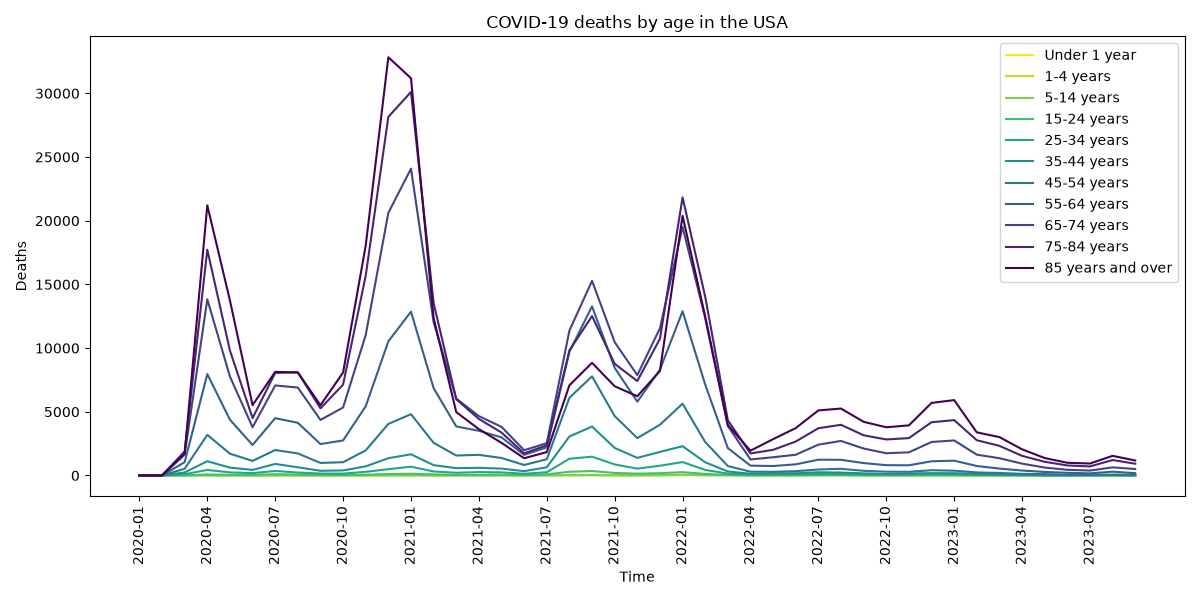
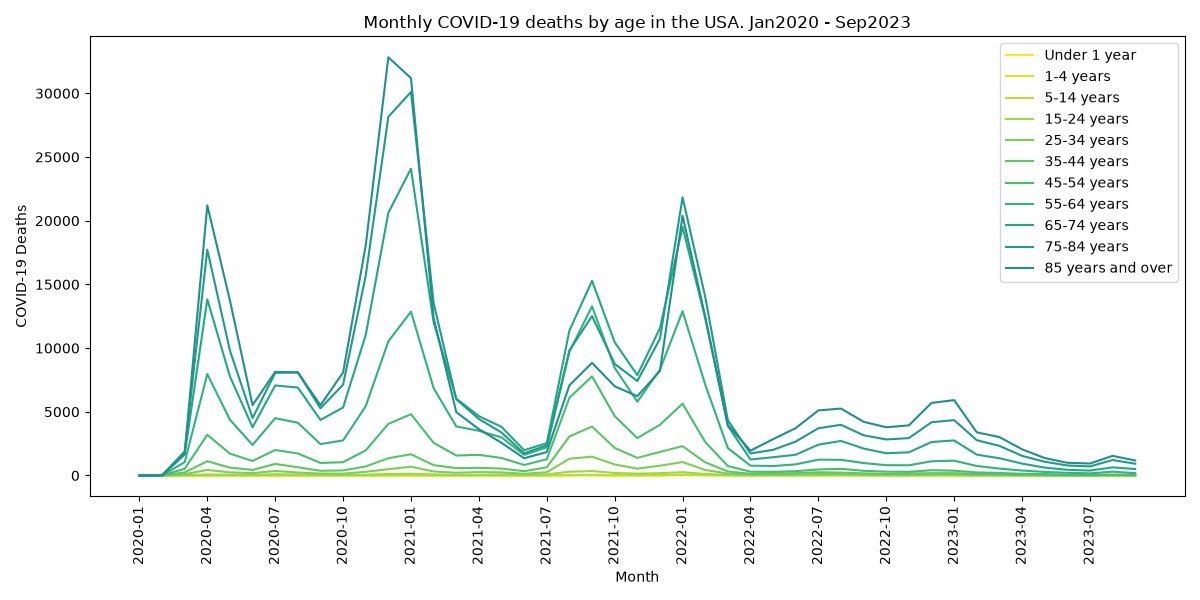
Fix texts in graphic

diff --git a/analysis.py b/analysis.py
@@ -42,9 +42,9 @@ for group,ndeaths in data.items():
     color = color + 1
 plt.xticks(range(0,45,3), axis[::3], rotation=90)
 plt.legend()
-plt.title('COVID-19 deaths by age in the USA')
-plt.xlabel('Time')
-plt.ylabel('Deaths')
+plt.title('Monthly COVID-19 deaths by age in the USA. Jan2020 - Sep2023')
+plt.xlabel('Month')
+plt.ylabel('COVID-19 Deaths')
 plt.tight_layout()
 plt.savefig('covid_deaths_by_age.png')
 plt.show()
